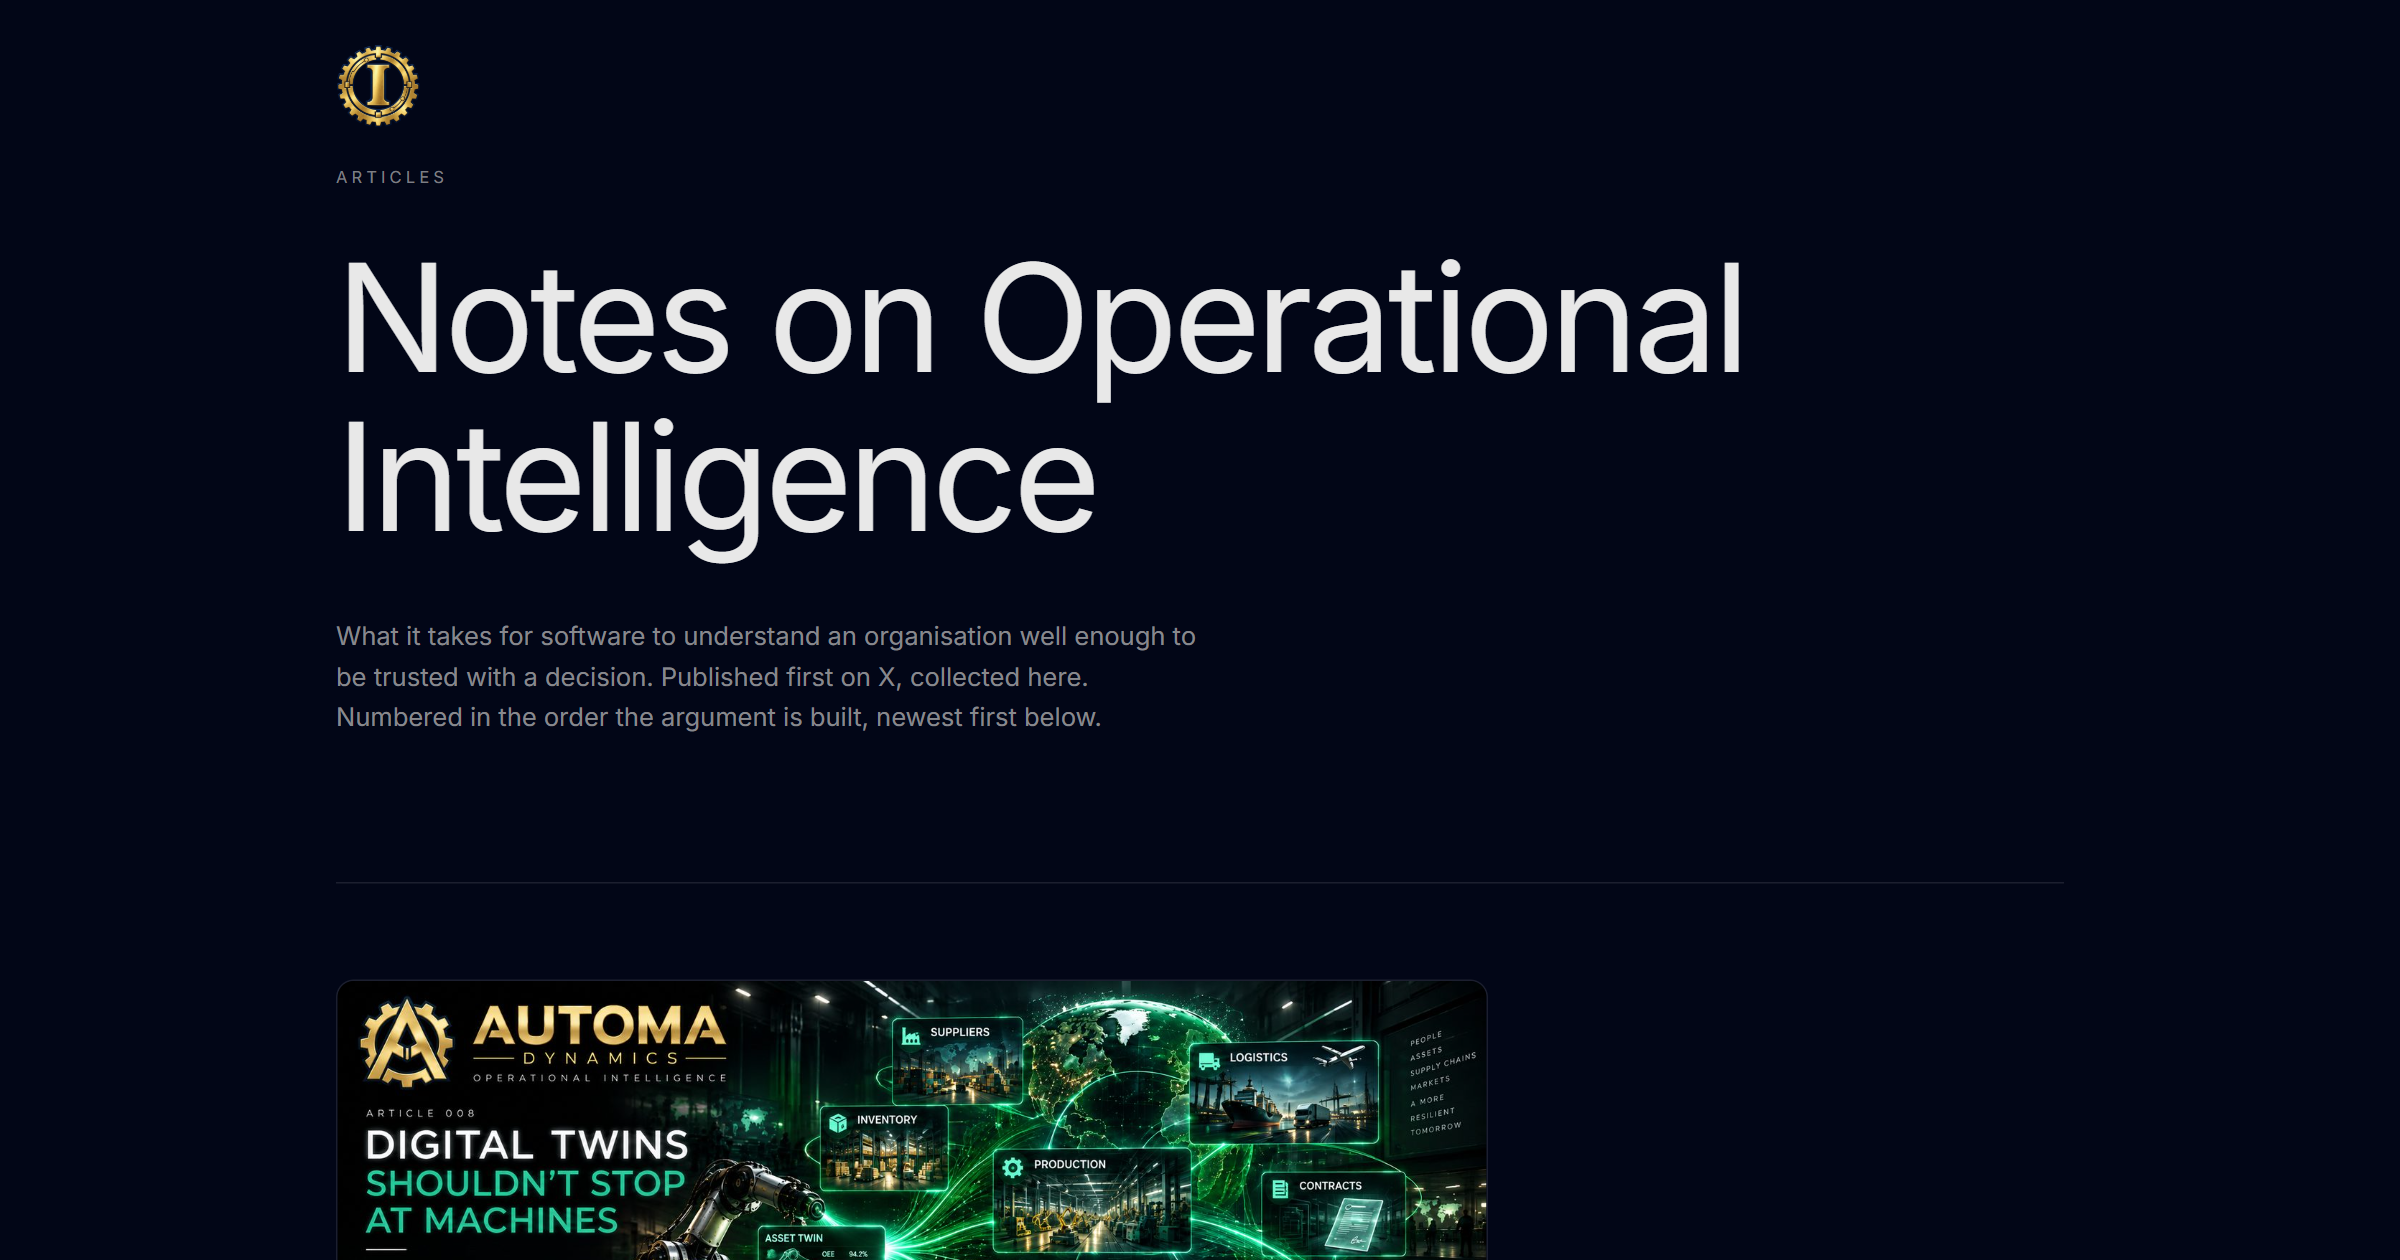
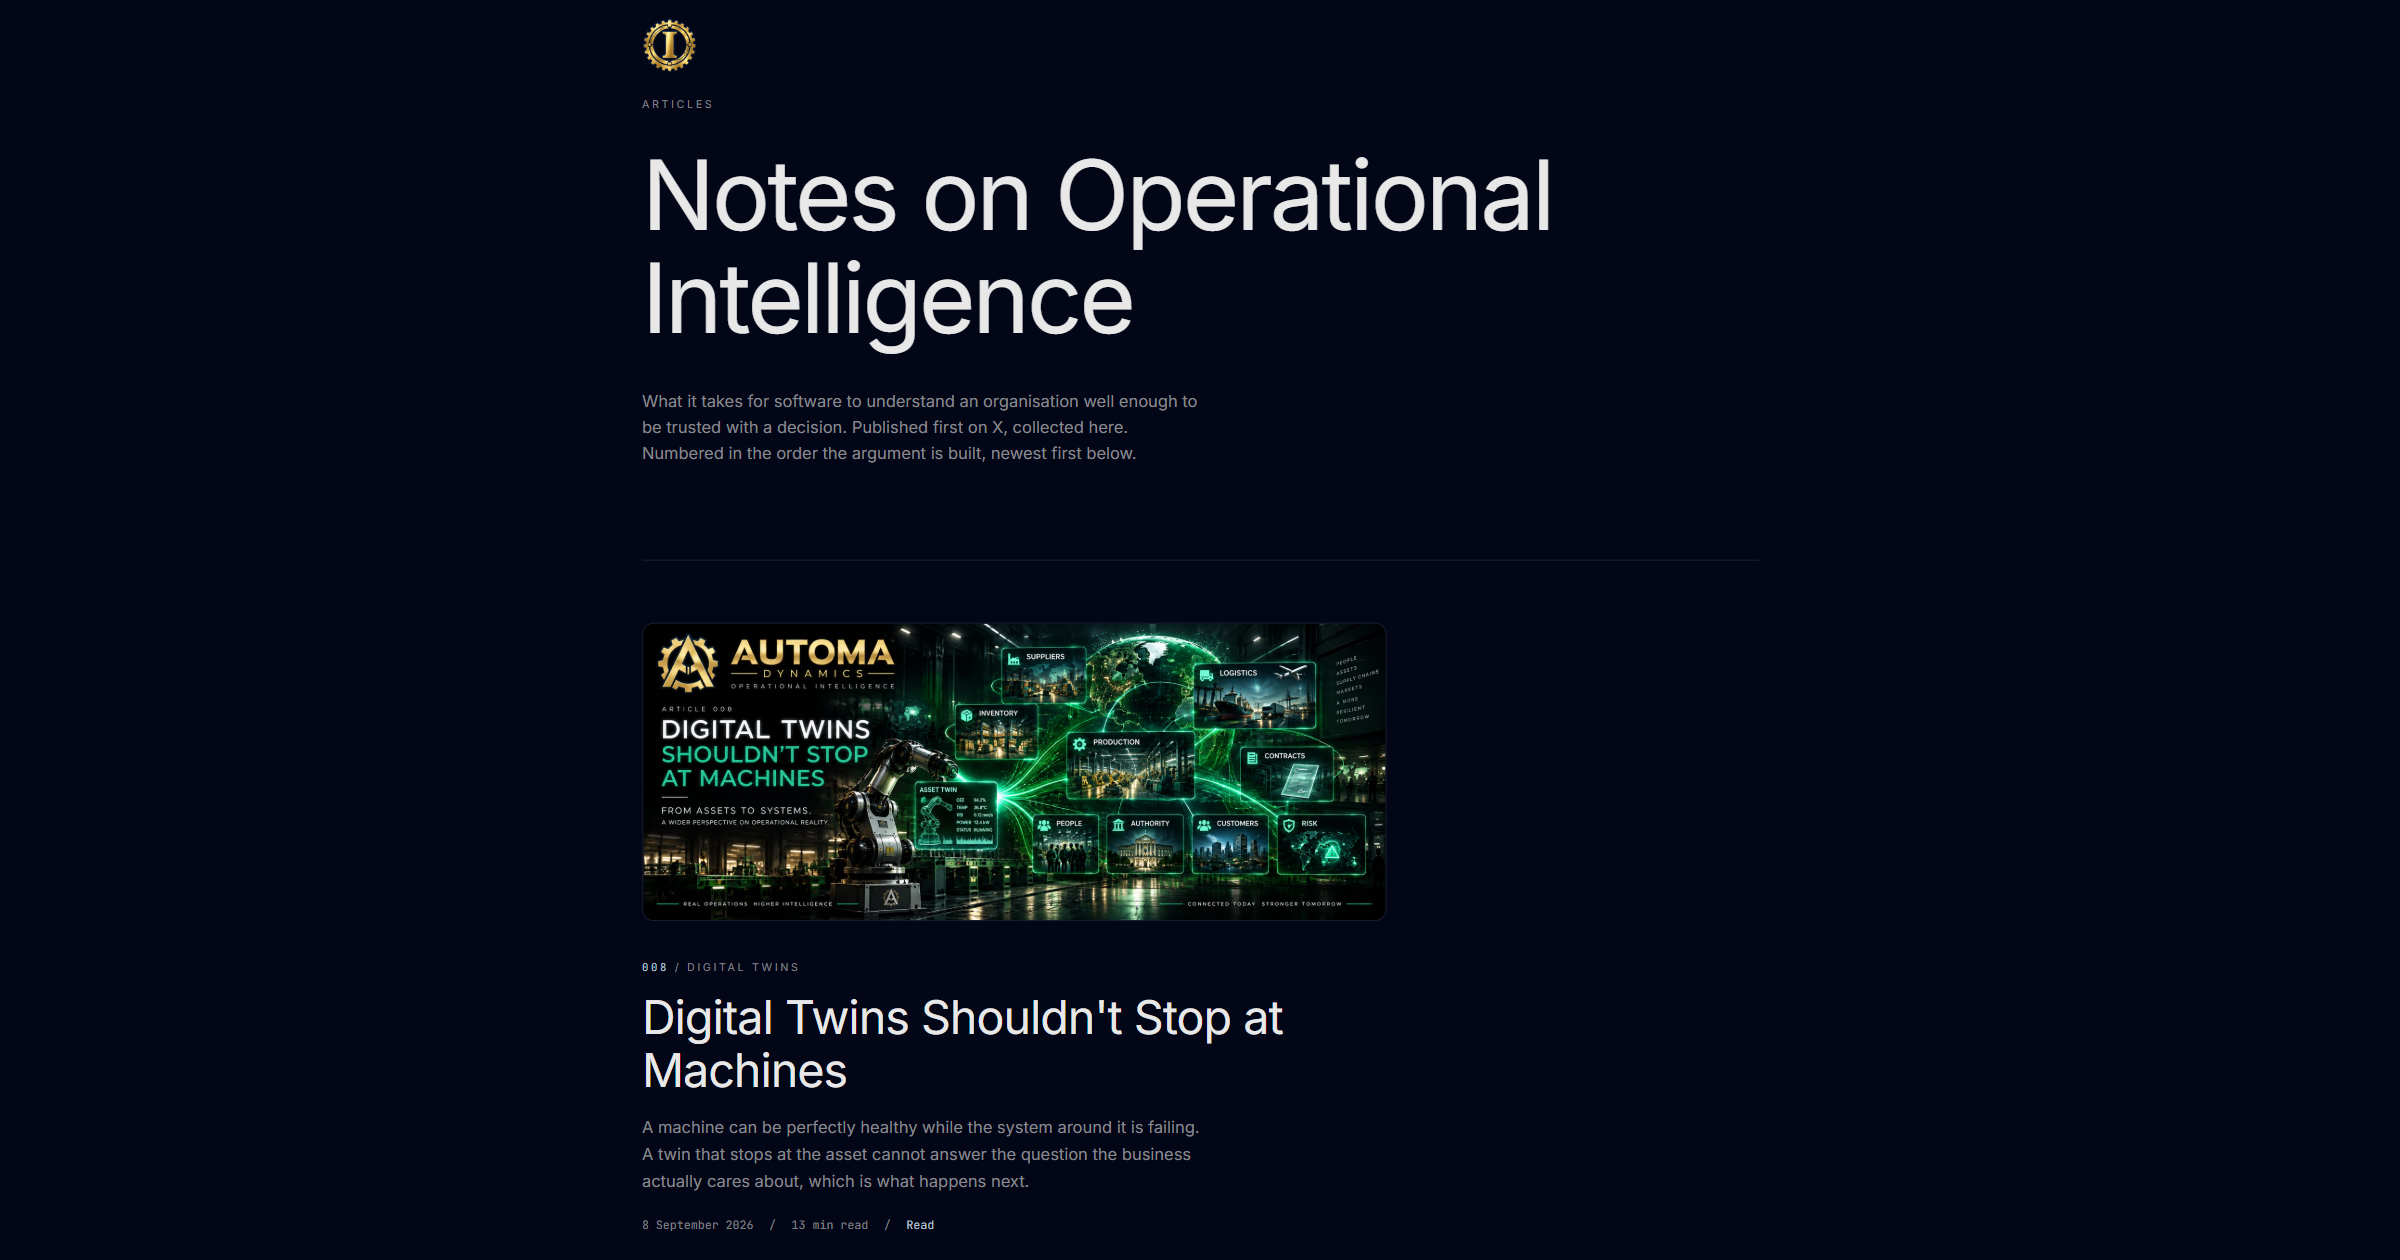
Zoom the /articles card out so nothing is cut in half
The first framing sliced the newest article's cover art on the bottom edge,
which reads as a broken image rather than as a page. The card now runs from
above the crest down to that article's read time, so the cover, number, title
and description are all whole.

The frame is now described by a top and bottom offset with the viewport width
derived from them, because that is the counterintuitive part worth encoding:
the page container is a fixed 1152px at any window size, so fitting more of the
page into a 1.91:1 frame means capturing WIDER, not narrower. Capture density
follows so the delivered card stays 2400px wide either way.

Claude-Session: https://claude.ai/code/session_01PPNX9mg8kdp1WSMY38N8yu

diff --git a/PUBLISHING.md b/PUBLISHING.md
@@ -100,11 +100,20 @@ what X and LinkedIn show when the index is linked. Without it that route falls
 back to the site-wide logo. Individual articles already advertise their own
 cover art, so this is only ever about the index.
 
-The frame is the hero - crest, series heading, standfirst, and the newest
-cover art just breaking into the bottom edge. That last part is the only bit
-that goes stale, and it goes stale gracefully, so this does not need running on
-every publish. Run it when the top of the page changes, or when the sliver of
-cover at the bottom has been the same piece for a while.
+The frame runs from above the crest down to the first article's read time:
+crest, series heading, standfirst, then the newest piece complete with its cover
+art, number, title and description. Nothing may be cut in half - a sliced cover
+on the bottom edge reads as a broken image rather than a page.
+
+Because the frame ends on the newest article, the card advertises whatever is at
+the top of the index. Worth a rerun after a publish, though a card one article
+behind is not a defect.
+
+The `top` and `bottom` offsets in the script are what to edit if the page grows;
+the viewport width follows from them. The container is a fixed 1152px at any
+window size, so a narrower viewport does not enlarge the text, it only trims the
+margin. **Fitting more of the page into the frame means capturing WIDER, not
+narrower.**
 
 Chrome is driven through `puppeteer-core`, which uses the browser already
 installed rather than downloading one. Set `CHROME_PATH` if it cannot find it.
